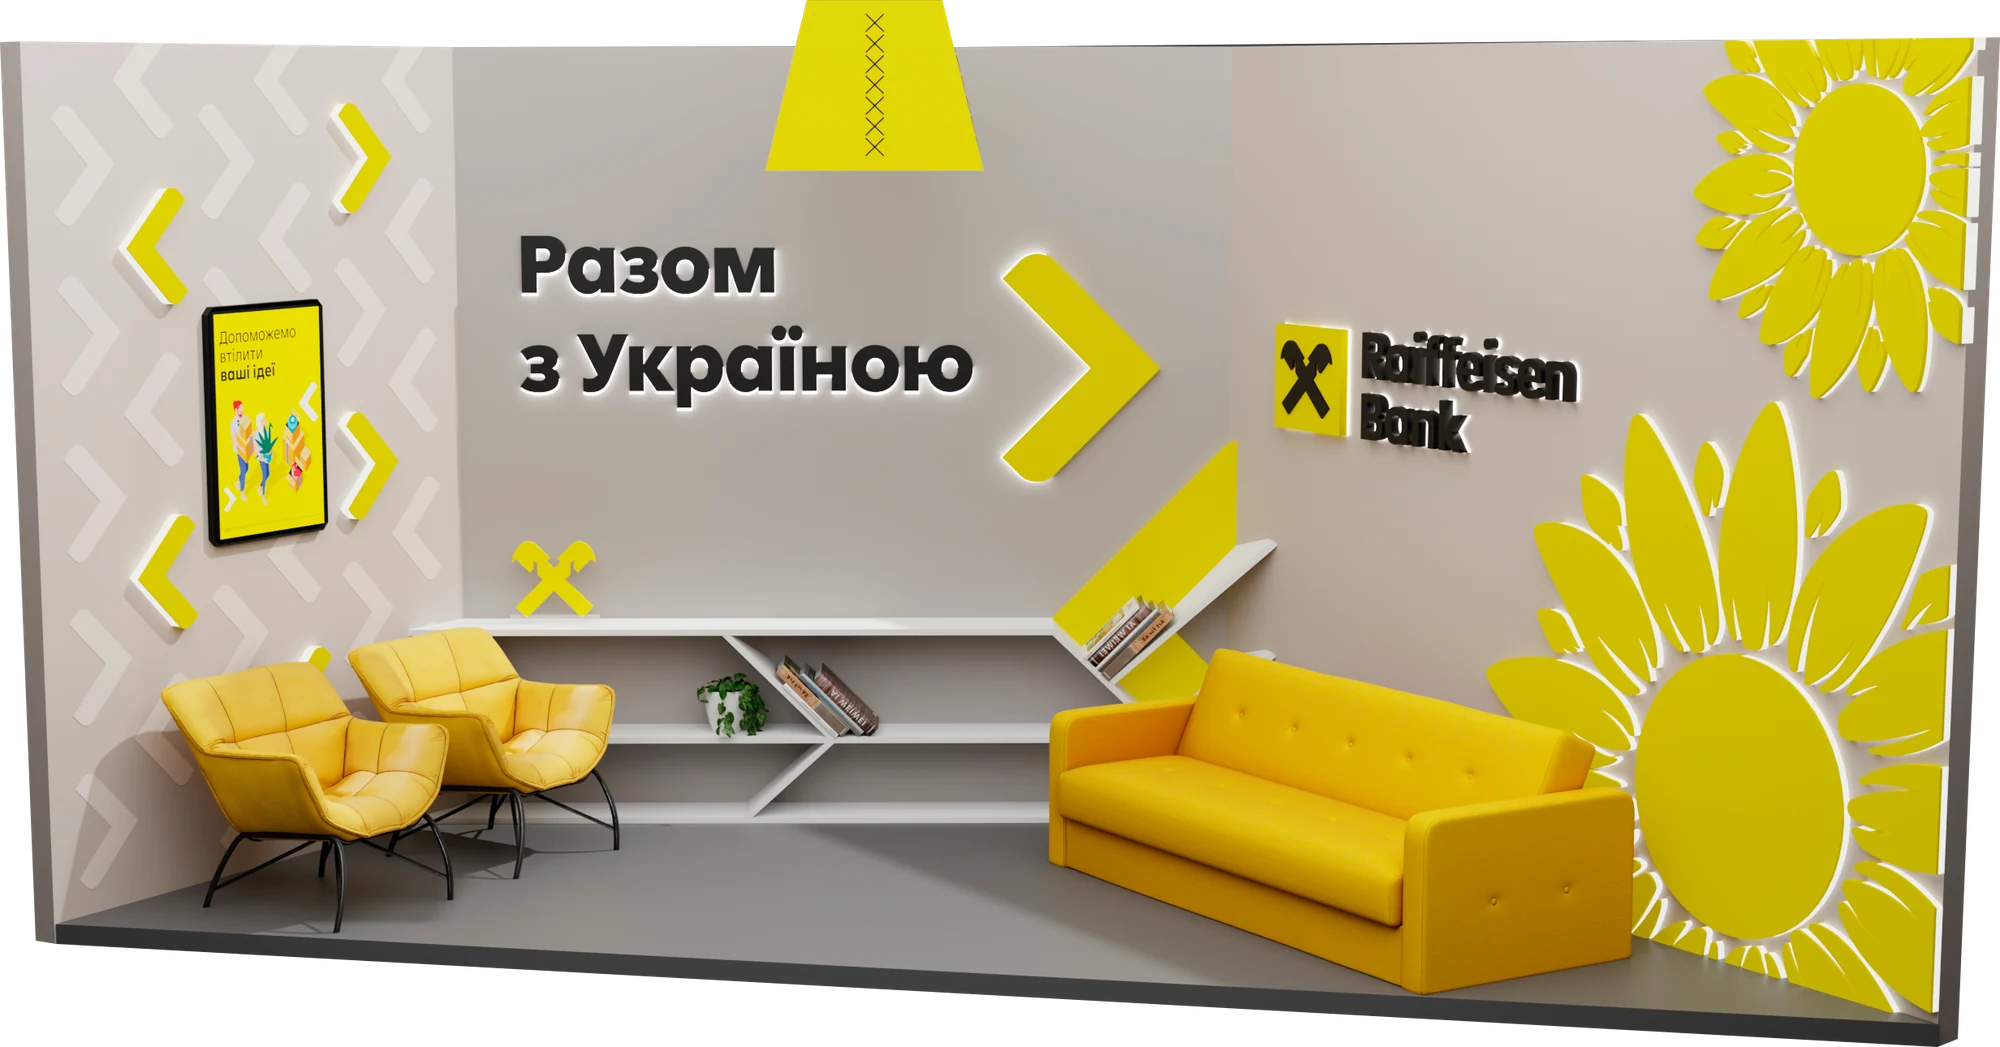
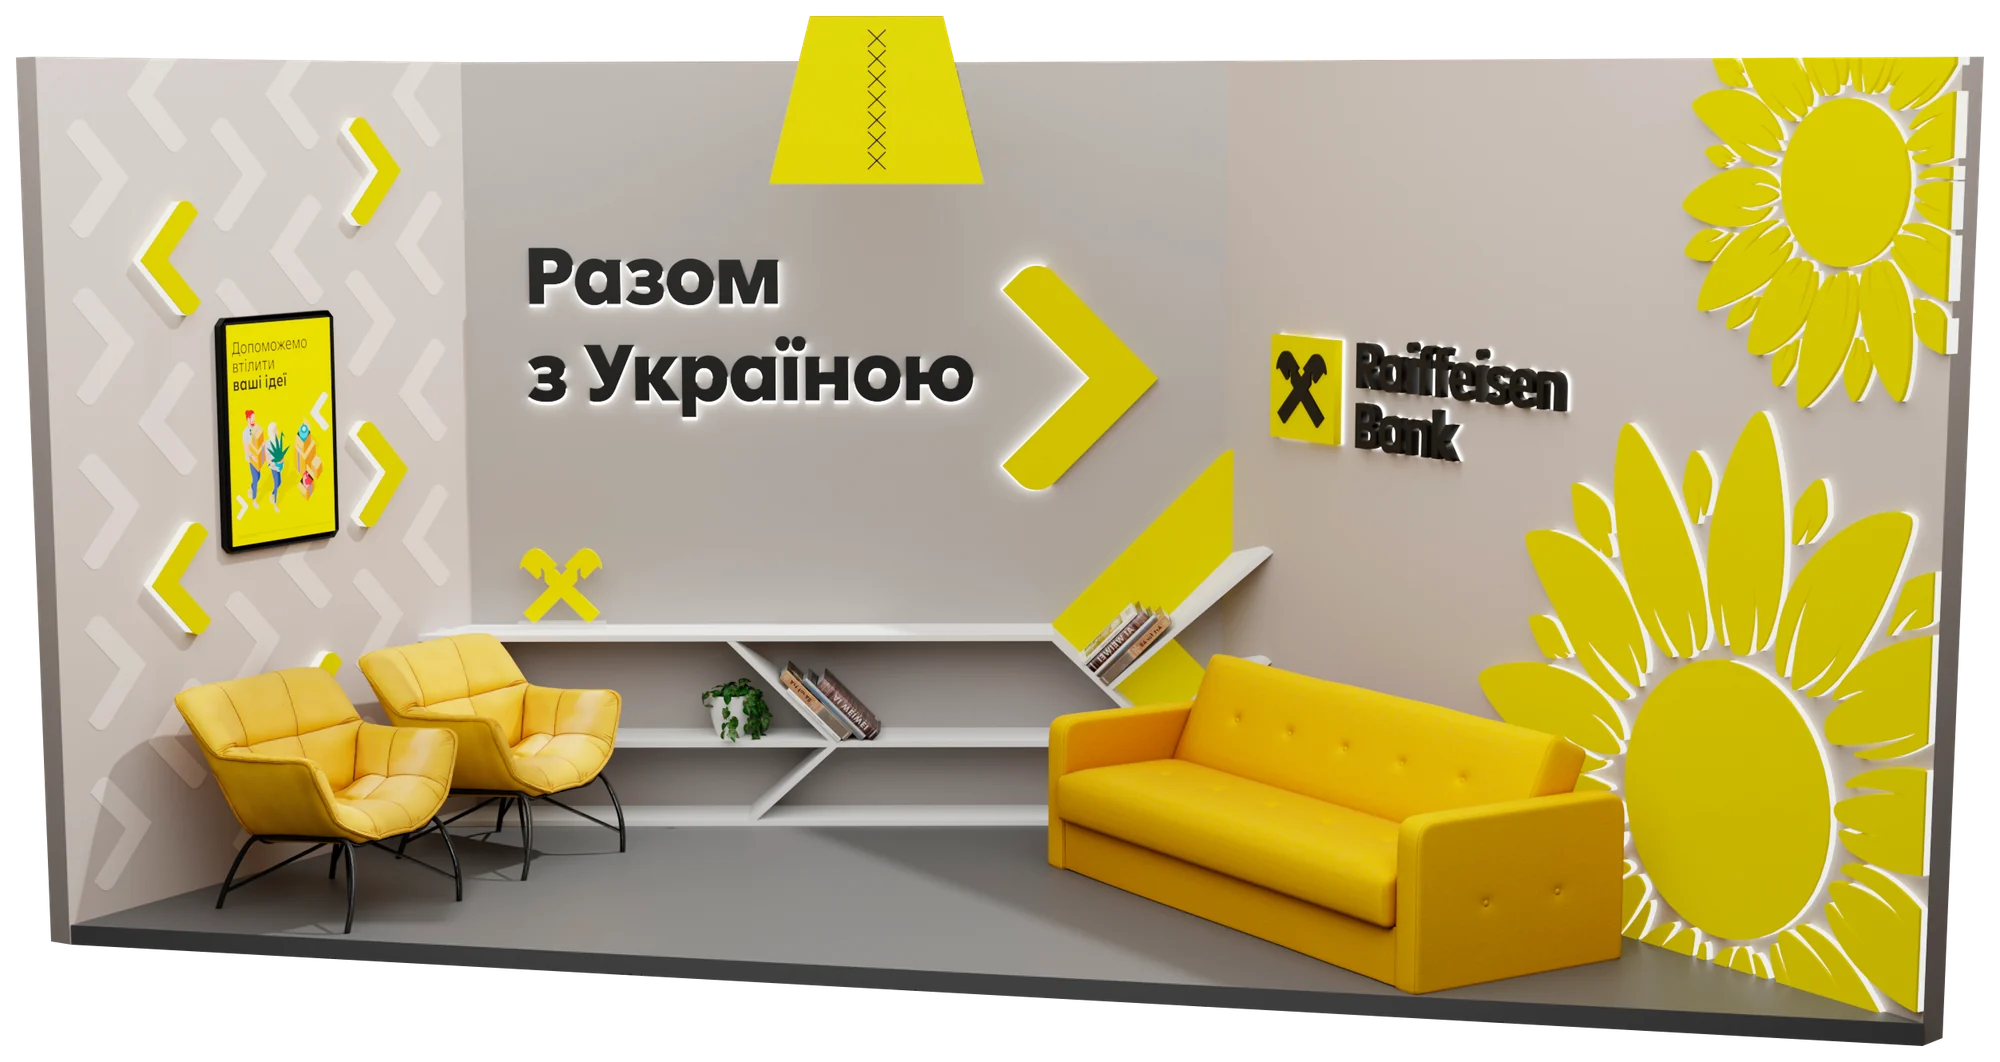
Raiffeisen stand: new render, single studio photo (people photo removed)
Claude-Session: https://claude.ai/code/session_015TFhS8os7AWGrdWdPo6Nzt

diff --git a/index.html b/index.html
@@ -619,7 +619,7 @@
           <div class="pg-stack">
           <figure class="pg-shots sh-below sh-43 sh-poster sh-single sh-rb" tabindex="0" role="group" aria-label="Візуалізація стенда Raiffeisen Bank · Raiffeisen Bank stand render">
             <div class="sh-track">
-              <img src="stand-rb.webp" width="2000" height="1047" alt="Raiffeisen Bank «Разом з Україною» — виставковий стенд (візуалізація) · Raiffeisen Bank “Together with Ukraine” exhibition stand (render)" loading="lazy" decoding="async" draggable="false">
+              <img src="stand-rb.webp" width="2000" height="1062" alt="Raiffeisen Bank «Разом з Україною» — виставковий стенд (візуалізація) · Raiffeisen Bank “Together with Ukraine” exhibition stand (render)" loading="lazy" decoding="async" draggable="false">
             </div>
             <div class="s3d-ui sh-zoom">
               <button type="button" class="s3d-btn s3d-ico" data-sh="out" aria-label="Zoom out · Зменшити" disabled>&minus;</button>
@@ -629,18 +629,7 @@
               <button type="button" data-sh="prev" hidden></button><span class="sh-count" hidden></span><button type="button" data-sh="next" hidden></button>
             </div>
           </figure>
-          <figure class="pg-shots sh-rb-photos" tabindex="0" role="group" aria-roledescription="carousel" aria-label="Готова студія Raiffeisen Bank: гортайте стрілками або свайпом · The built studio: use arrows or swipe">
-            <div class="sh-track" style="aspect-ratio:3/2">
-              <img src="stand-rb-2.webp" width="1800" height="1200" alt="Готова студія Raiffeisen Bank «Разом з Україною» під час запису ефіру · The built Raiffeisen Bank studio during a broadcast" loading="lazy" decoding="async" draggable="false">
-              <img src="stand-rb-3.webp" width="1800" height="1200" alt="Готова студія Raiffeisen Bank «Разом з Україною», загальний вигляд · The built Raiffeisen Bank studio, general view" loading="lazy" decoding="async" draggable="false">
-            </div>
-            <button type="button" data-sh="out" hidden></button><button type="button" data-sh="in" hidden></button>
-            <div class="cal-bar">
-              <button type="button" class="s3d-btn s3d-ico" data-sh="prev" aria-label="Previous photo · Попереднє фото" disabled><svg viewBox="0 0 24 24" width="20" height="20" fill="none" stroke="currentColor" stroke-width="2" stroke-linecap="round" stroke-linejoin="round" aria-hidden="true"><path d="M15 5l-7 7 7 7"/></svg></button>
-              <span class="sh-count" hidden></span>
-              <button type="button" class="s3d-btn s3d-ico" data-sh="next" aria-label="Next photo · Наступне фото"><svg viewBox="0 0 24 24" width="20" height="20" fill="none" stroke="currentColor" stroke-width="2" stroke-linecap="round" stroke-linejoin="round" aria-hidden="true"><path d="M9 5l7 7-7 7"/></svg></button>
-            </div>
-          </figure>
+          <figure class="pg-photo"><img src="stand-rb-3.webp" width="1800" height="1200" alt="Готова студія Raiffeisen Bank «Разом з Україною», загальний вигляд · The built Raiffeisen Bank studio, general view" loading="lazy" decoding="async"></figure>
           </div>
           <div class="pg-empty pg-text"><span class="en">Project description goes here</span><span class="uk">Тут буде опис проєкту</span></div>
           </div>
